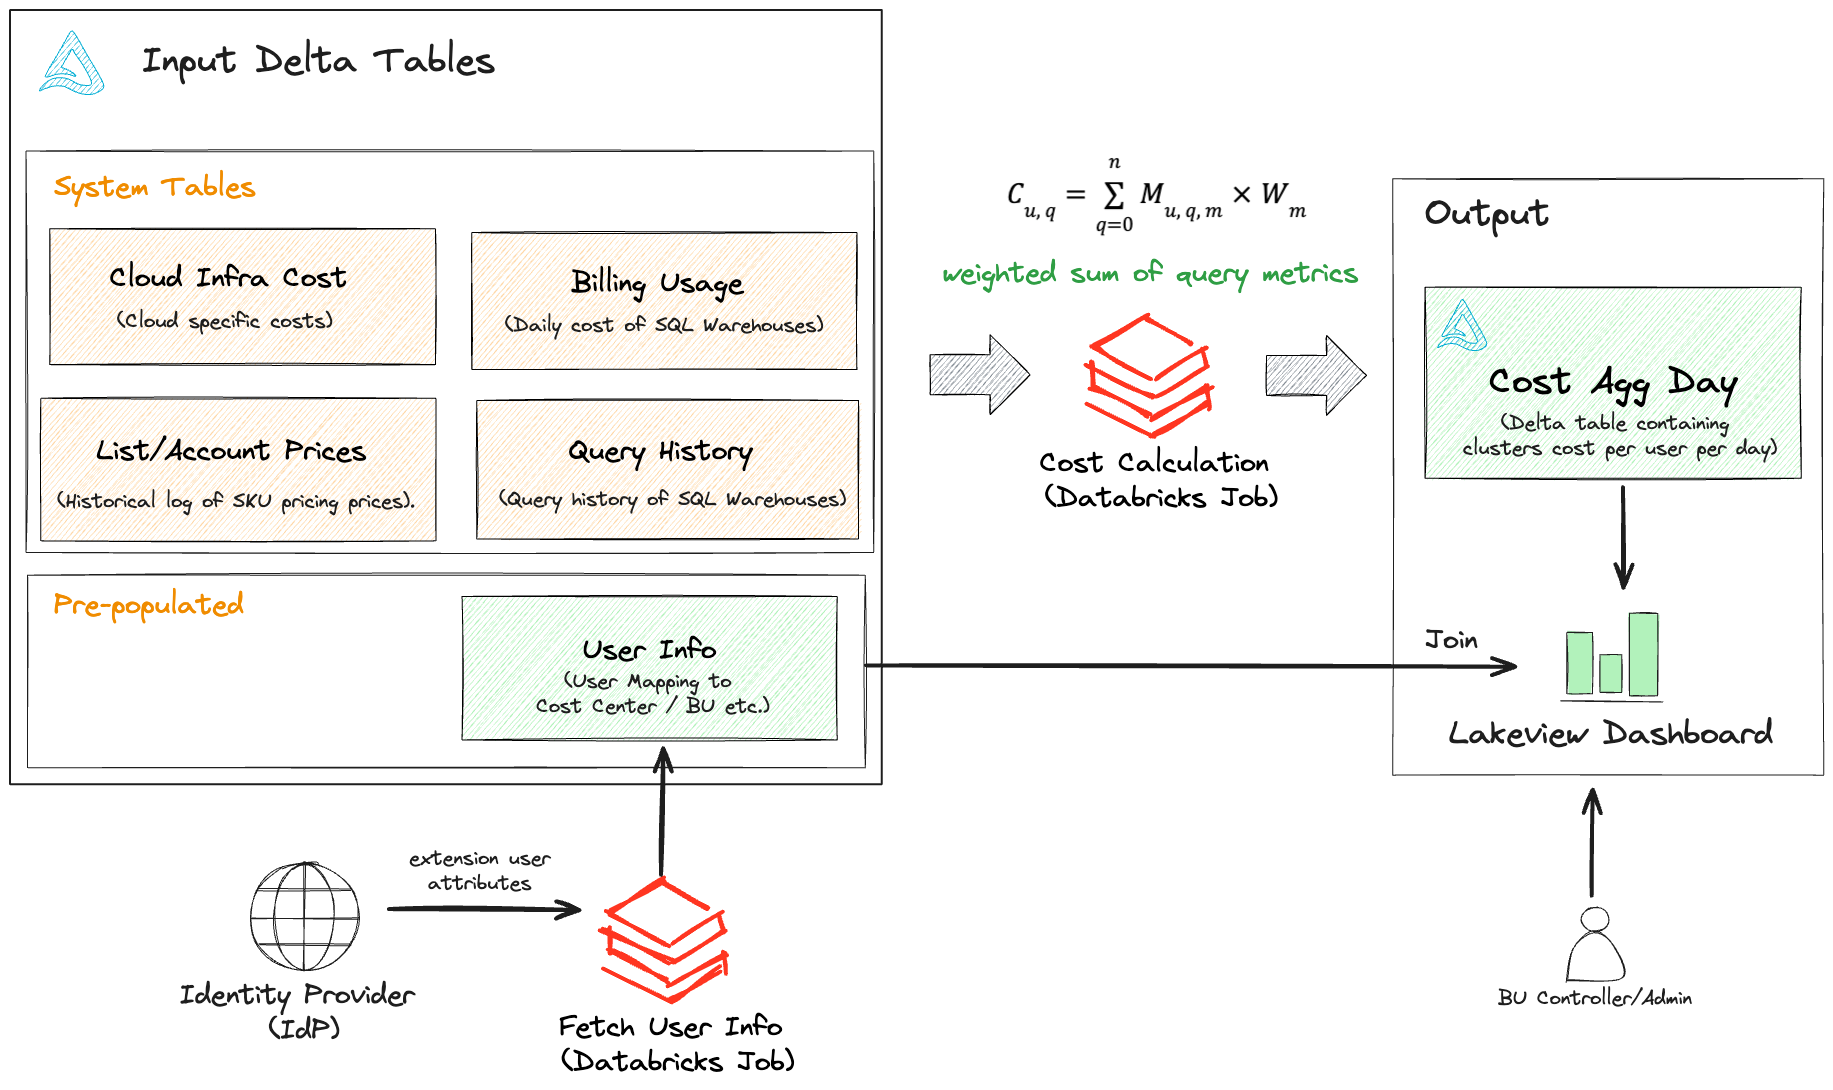
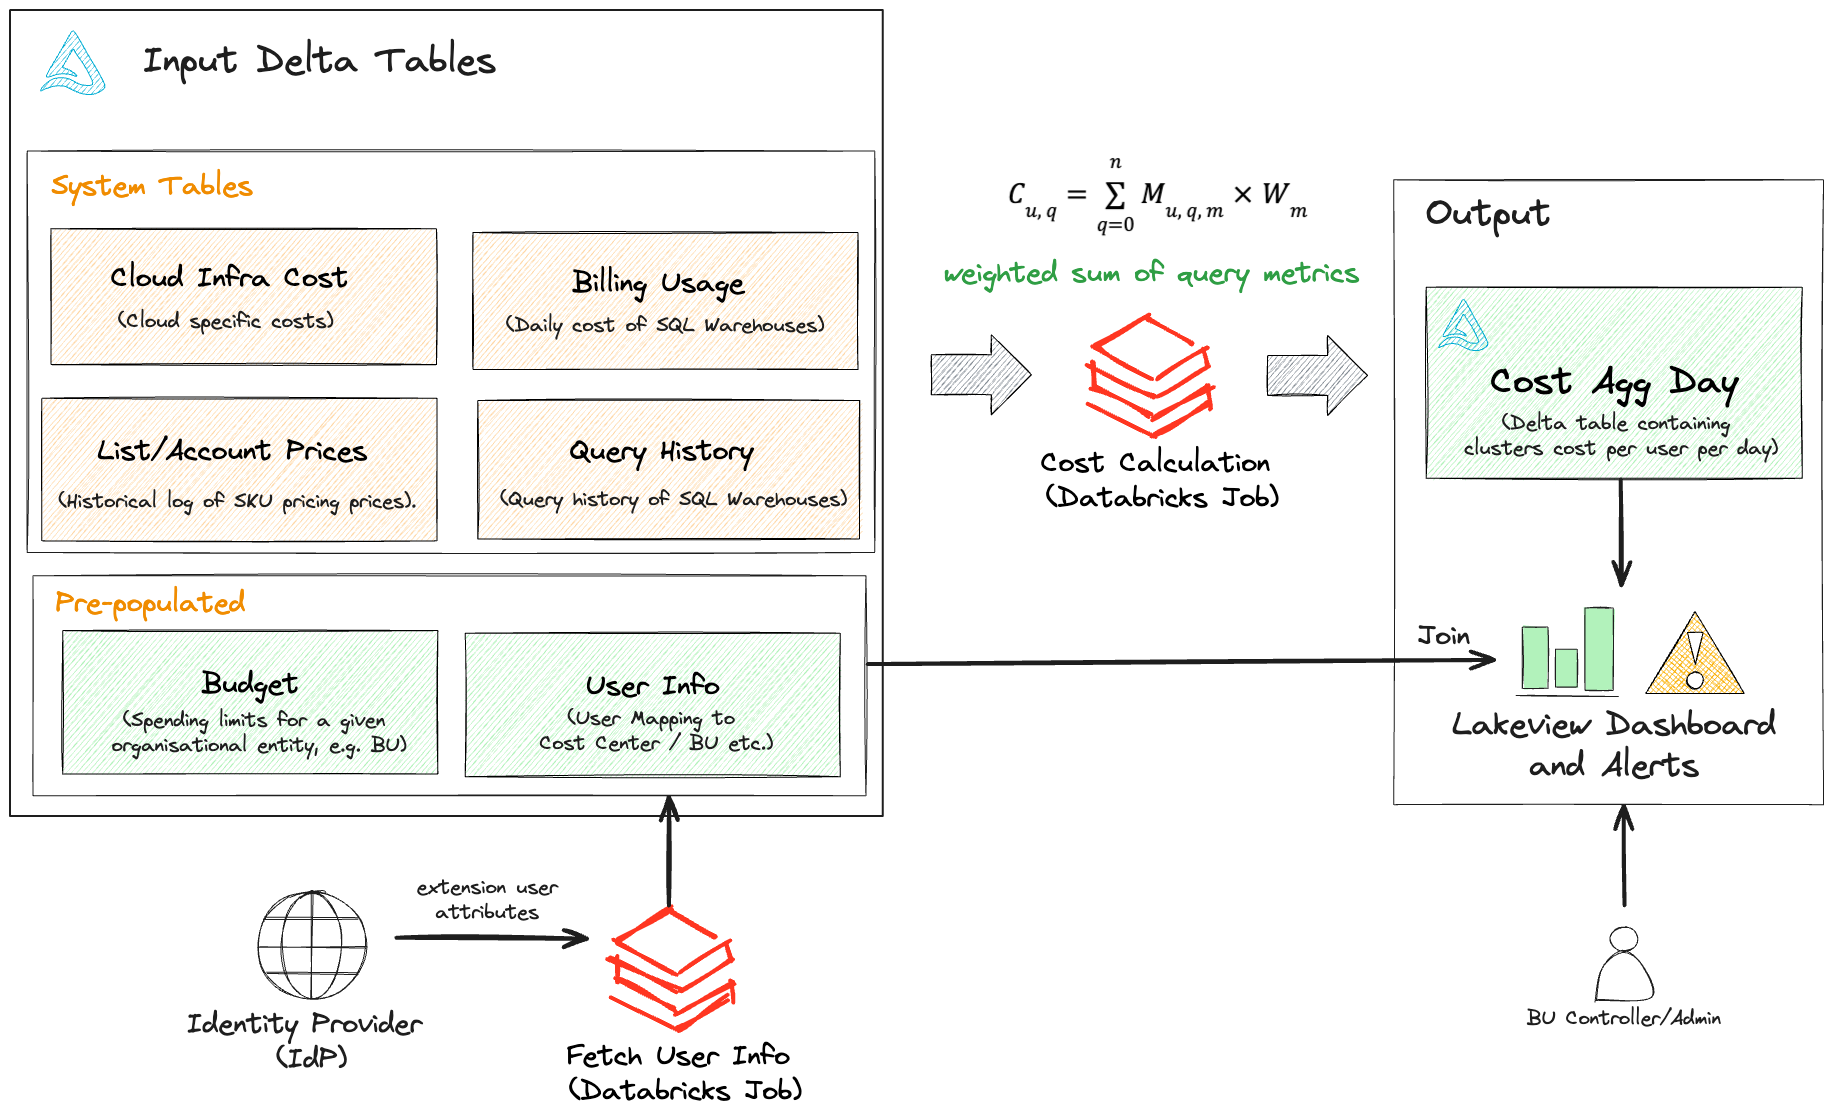
added budget table and alerts

diff --git a/src/clusters_cost_allocation/dbsql_queries.py b/src/clusters_cost_allocation/dbsql_queries.py
@@ -1,0 +1,69 @@
+def _get_base_alert_query_body(catalog_and_schema: str):
+    return f"""
+        WITH monthly_costs AS (
+            SELECT
+              ui.department,
+              cad.currency_code,
+              CAST(DATE_TRUNC('month', cad.billing_date) AS DATE) as month,
+              SUM(cad.dbu_cost) AS total_dbu_cost,
+              SUM(cad.cloud_cost) AS total_cloud_cost
+            FROM {catalog_and_schema}.cost_agg_day cad
+            INNER JOIN {catalog_and_schema}.user_info ui
+              ON ui.user_name = cad.user_name
+            GROUP BY
+              ui.department,
+              cad.currency_code,
+              DATE_TRUNC('month', cad.billing_date)
+        ),
+        budget_info AS (
+            SELECT
+              organizational_entity_value AS department,
+              effective_start_date,
+              COALESCE(effective_end_date, CURRENT_DATE) AS effective_end_date,
+              dbu_cost_limit,
+              cloud_cost_limit,
+              currency_code
+            FROM {catalog_and_schema}.budget
+            WHERE
+              organizational_entity_name = 'department'
+        ), cost_report AS (
+            SELECT
+              mc.department,
+              mc.month,
+              mc.total_dbu_cost,
+              bi.dbu_cost_limit,
+              CASE
+                WHEN mc.total_dbu_cost <= bi.dbu_cost_limit THEN 'DBU Cost Within Budget'
+                ELSE 'DBU Cost Over Budget'
+              END AS dbu_budget_status,
+              CASE
+                WHEN mc.total_cloud_cost <= bi.cloud_cost_limit THEN 'Cloud Cost Within Budget'
+                ELSE 'Cloud Cost Over Budget'
+              END AS cloud_budget_status
+            FROM monthly_costs mc
+            INNER JOIN budget_info bi
+              ON mc.department = bi.department
+                AND mc.currency_code = bi.currency_code
+                AND mc.month BETWEEN bi.effective_start_date AND bi.effective_end_date
+            WHERE CAST(DATE_TRUNC('month', CURRENT_DATE) AS DATE) = mc.month
+            ORDER BY
+              mc.department,
+              mc.month
+        )
+        SELECT COUNT(1) AS number_of_violations
+        FROM cost_report
+    """
+
+
+def get_dbu_cost_alert_query_body(catalog_and_schema: str):
+    return (
+        _get_base_alert_query_body(catalog_and_schema)
+        + " WHERE dbu_budget_status = 'DBU Cost Over Budget'"
+    )
+
+
+def get_cloud_cost_alert_query_body(catalog_and_schema: str):
+    return (
+        _get_base_alert_query_body(catalog_and_schema)
+        + " WHERE cloud_budget_status = 'Cloud Cost Over Budget'"
+    )

diff --git a/src/create_alerts.py b/src/create_alerts.py
@@ -1,0 +1,85 @@
+# Databricks notebook source
+# pylint: skip-file
+# MAGIC %md
+# MAGIC ## Install databricks-sdk
+from clusters_cost_allocation.dbsql_handler import DBSQLHandler
+from clusters_cost_allocation.dbsql_queries import (
+    get_dbu_cost_alert_query_body,
+    get_cloud_cost_alert_query_body,
+)
+
+# COMMAND ----------
+
+# MAGIC %pip install databricks-sdk --upgrade
+
+# COMMAND ----------
+
+dbutils.library.restartPython()
+
+# COMMAND ----------
+
+# MAGIC %md
+# MAGIC ## Get catalog and schema
+
+# COMMAND ----------
+
+dbutils.widgets.text("output_catalog", "main")
+dbutils.widgets.text("output_schema", "billing_usage_granular")
+
+catalog = dbutils.widgets.get("output_catalog")
+schema = dbutils.widgets.get("output_schema")
+
+catalog_and_schema = f"{catalog}.{schema}"
+print(f"Use {catalog_and_schema}")
+
+# COMMAND ----------
+
+# MAGIC %md
+# MAGIC ## Def functions
+
+# COMMAND ----------
+
+from databricks.sdk import WorkspaceClient
+
+w = WorkspaceClient()
+handler = DBSQLHandler(w, data_source_id=w.data_sources.list()[0].id)
+
+# COMMAND ----------
+
+# MAGIC %md
+# MAGIC ## Remove existing Queries and Alerts
+
+# COMMAND ----------
+
+alert_name_dbu_cost = "_granular-billing-budget-dbu-cost-alert"
+alert_name_cloud_cost = "_granular-billing-budget-cloud-cost-alert"
+query_name_dbu_cost = "_granular-billing-budget-dbu-cost-query"
+query_name_cloud_cost = "_granular-billing-budget-cloud-cost-query"
+
+handler.delete_query_and_alert(query_name_dbu_cost, alert_name_dbu_cost)
+handler.delete_query_and_alert(query_name_cloud_cost, alert_name_cloud_cost)
+
+# COMMAND ----------
+
+# MAGIC %md
+# MAGIC ## Create Queries and Alerts
+# MAGIC
+# MAGIC Alert is raised if costs are exceeded for any of the departments.
+# MAGIC There is a separate alert for DBU and Cloud costs.
+
+# COMMAND ----------
+
+handler.create_query_and_alert(
+    query_name_dbu_cost,
+    get_dbu_cost_alert_query_body(catalog_and_schema),
+    "DBU Budget Query",
+    alert_name_dbu_cost,
+)
+handler.create_query_and_alert(
+    query_name_cloud_cost,
+    get_cloud_cost_alert_query_body(catalog_and_schema),
+    "Cloud Budget Query",
+    alert_name_cloud_cost,
+)
+
+# COMMAND ----------

diff --git a/src/clusters_cost_allocation/dbsql_handler.py b/src/clusters_cost_allocation/dbsql_handler.py
@@ -1,0 +1,60 @@
+from databricks.sdk import WorkspaceClient
+from databricks.sdk.service import sql
+
+
+class DBSQLHandler:
+    def __init__(self, w: WorkspaceClient, data_source_id):
+        self.w = w
+        self.data_source_id = data_source_id
+
+    def _delete_alert_if_exists(self, name: str):
+        alert_id = None
+        for alert in self.w.alerts.list():
+
+            if alert.name == name:
+                print(f"found alert: {name}")
+                alert_id = alert.id
+                break
+
+        if alert_id:
+            print(f"deleting alert: {name}")
+            self.w.alerts.delete(alert_id=alert_id)
+
+    def _delete_query_if_exists(self, name: str):
+        query_id = None
+        for query in self.w.queries.list():
+            if query.name == name:
+                print(f"found query: {name}")
+                query_id = query.id
+                break
+
+        if query_id:
+            print(f"deleting query: {name}")
+            self.w.queries.delete(query_id=query_id)
+
+    def _create_query(self, name, query_body, description):
+        print(f"creating query: {name}")
+        return self.w.queries.create(
+            name=name,
+            data_source_id=self.data_source_id,
+            description=description,
+            query=query_body,
+        )
+
+    def _create_alert(self, name, query_id):
+        print(f"creating alert: {name}")
+        return self.w.alerts.create(
+            options=sql.AlertOptions(column="1", op=">", value="0"),
+            name=name,
+            query_id=query_id,
+        )
+
+    def create_query_and_alert(
+        self, query_name, query_body, query_description, alert_name
+    ):
+        query = self._create_query(query_name, query_body, query_description)
+        self._create_alert(alert_name, query.id)
+
+    def delete_query_and_alert(self, query_name, alert_name):
+        self._delete_alert_if_exists(alert_name)
+        self._delete_query_if_exists(query_name)

diff --git a/lake_view/demo_setup.py b/lake_view/demo_setup.py
@@ -68,3 +68,20 @@ user_info_df.write.mode("overwrite").saveAsTable(f"{catalog_and_schema}.user_inf
 # COMMAND ----------
 
 display(user_info_df)
+
+# COMMAND ----------
+
+# MAGIC %md
+# MAGIC ## Populate Budget
+
+# COMMAND ----------
+
+# MAGIC %sql
+# MAGIC INSERT INTO ${output_catalog}.${output_schema}.budget(organizational_entity_name, organizational_entity_value, dbu_cost_limit, cloud_cost_limit, currency_code, effective_start_date) VALUES
+# MAGIC ("department", "R&D", 3000000, 3500000, "USD", "2024-04-01"),
+# MAGIC ("department", "FE", 3000000, 3500000, "USD", "2024-04-01"),
+# MAGIC ("department", "PS", 1000000, 1500000, "USD", "2024-04-01");
+
+# COMMAND ----------
+
+

diff --git a/README.md b/README.md
@@ -45,8 +45,9 @@ Once the project is deployed, the following Jobs are created in your Databricks 
 * `granular billing usage: 1. create tables`
 * `granular billing usage: 2. calculate`
 * `granular billing usage: 3. fetch user info` (requires additional configuration)
+* `granular billing usage: 4. create alerts` (requires pre-populating the budget table, see [here](lake_view/demo_setup.py))
 
-Deploy and execute them in the given order. 
+Deploy and execute them in the given order.
 To visualize the cost calculation results, Databricks Dashboard can be used (sample available as part of the project).
 
 ### Steps:
@@ -100,13 +101,18 @@ and databricks user name to use for the execution.
    ```
    $ databricks bundle run fetch_user_info_job --target dev
    ```
+   d) Create Databricks SQL Alerts:
+   ```
+   $ databricks bundle run create_alerts_job --target dev
+   ```
    
 10. If you want to visualize the results:
 
     * Import [this dashboard](lake_view/dashboard.json).
-    * Import [this notebook](lake_view/user_info_demo.py) to pre-populate the `user_info` table with some randomized data.
+    * Import [this notebook](lake_view/demo_setup.py) to pre-populate the `user_info` and `budget` tables with some randomized data.
       You can use this to quickly get started before fetching the user info from your IdP provider.
       Before you run the notebook, provide the catalog and schema name of the user info table via widgets.
+      The `budget` table is used for alerting as well.
 
 # Design
 
@@ -123,12 +129,13 @@ For the **cost calculation** the following system tables are required:
 * List Prices system table ([system.billing.list_prices](https://docs.databricks.com/en/admin/system-tables/pricing.html)) containing historical log of SKU pricing.
 * Cloud Infra Cost system table (`system.billing.cloud_infra_cost`) containing cloud costs (VM and cloud storage).
 
-For the **dashboard** to be able to map users to departments / cost centers the following table is required:
+For the **dashboard** and **alerts** the following tables are required:
 * User Info table (`user_info`) contains mapping of users to cost centers and departments. 
 This table can be pre-populated based on extension attributes from the IdP providers. 
 See example notebook for Microsoft Entra ID [here](src/fetch_user_info_ad.py).
-
 ![problem](docs/user_info_table.png?)
+* Budget table (`budget`) contains spending limits for a given organizational entity (e.g. department).
+![problem](docs/budget_table.png?)
 
 ### Output
 
@@ -140,8 +147,8 @@ Only users that have consumed any DBUs in the given day are included.
 
 [Rows filters](https://docs.databricks.com/en/tables/row-and-column-filters.html) can be applied to the table to ensure
 only specific rows can be viewed by specific departments/users. 
-The table can be joined to the User Info table (user_info) to retrieve additional contextual information 
-about the users (e.g. cost center, department).
+The table can be joined to the User Info table (`user_info`) to retrieve additional contextual information 
+about the users (e.g. cost center, department), and to the Budget table (`budget`) to get info about spending limits.
 
 ### Cost Calculation
 
@@ -179,8 +186,8 @@ However, currently, cloud cost reporting is only available for AWS.
 The reported cloud costs include EC2-related expenses. 
 Future updates will include Storage and Network costs, as well as support for other cloud providers.
 
-
 # Future work
- 
+
+* Automate LakeView dashboard deployment
 * More IdPs: Extend the User Info workflow to support more IdP providers (e.g. Okta, One Login), not only Microsoft Entra ID.
 * Support for regular Databricks clusters (job and all-purpose).
